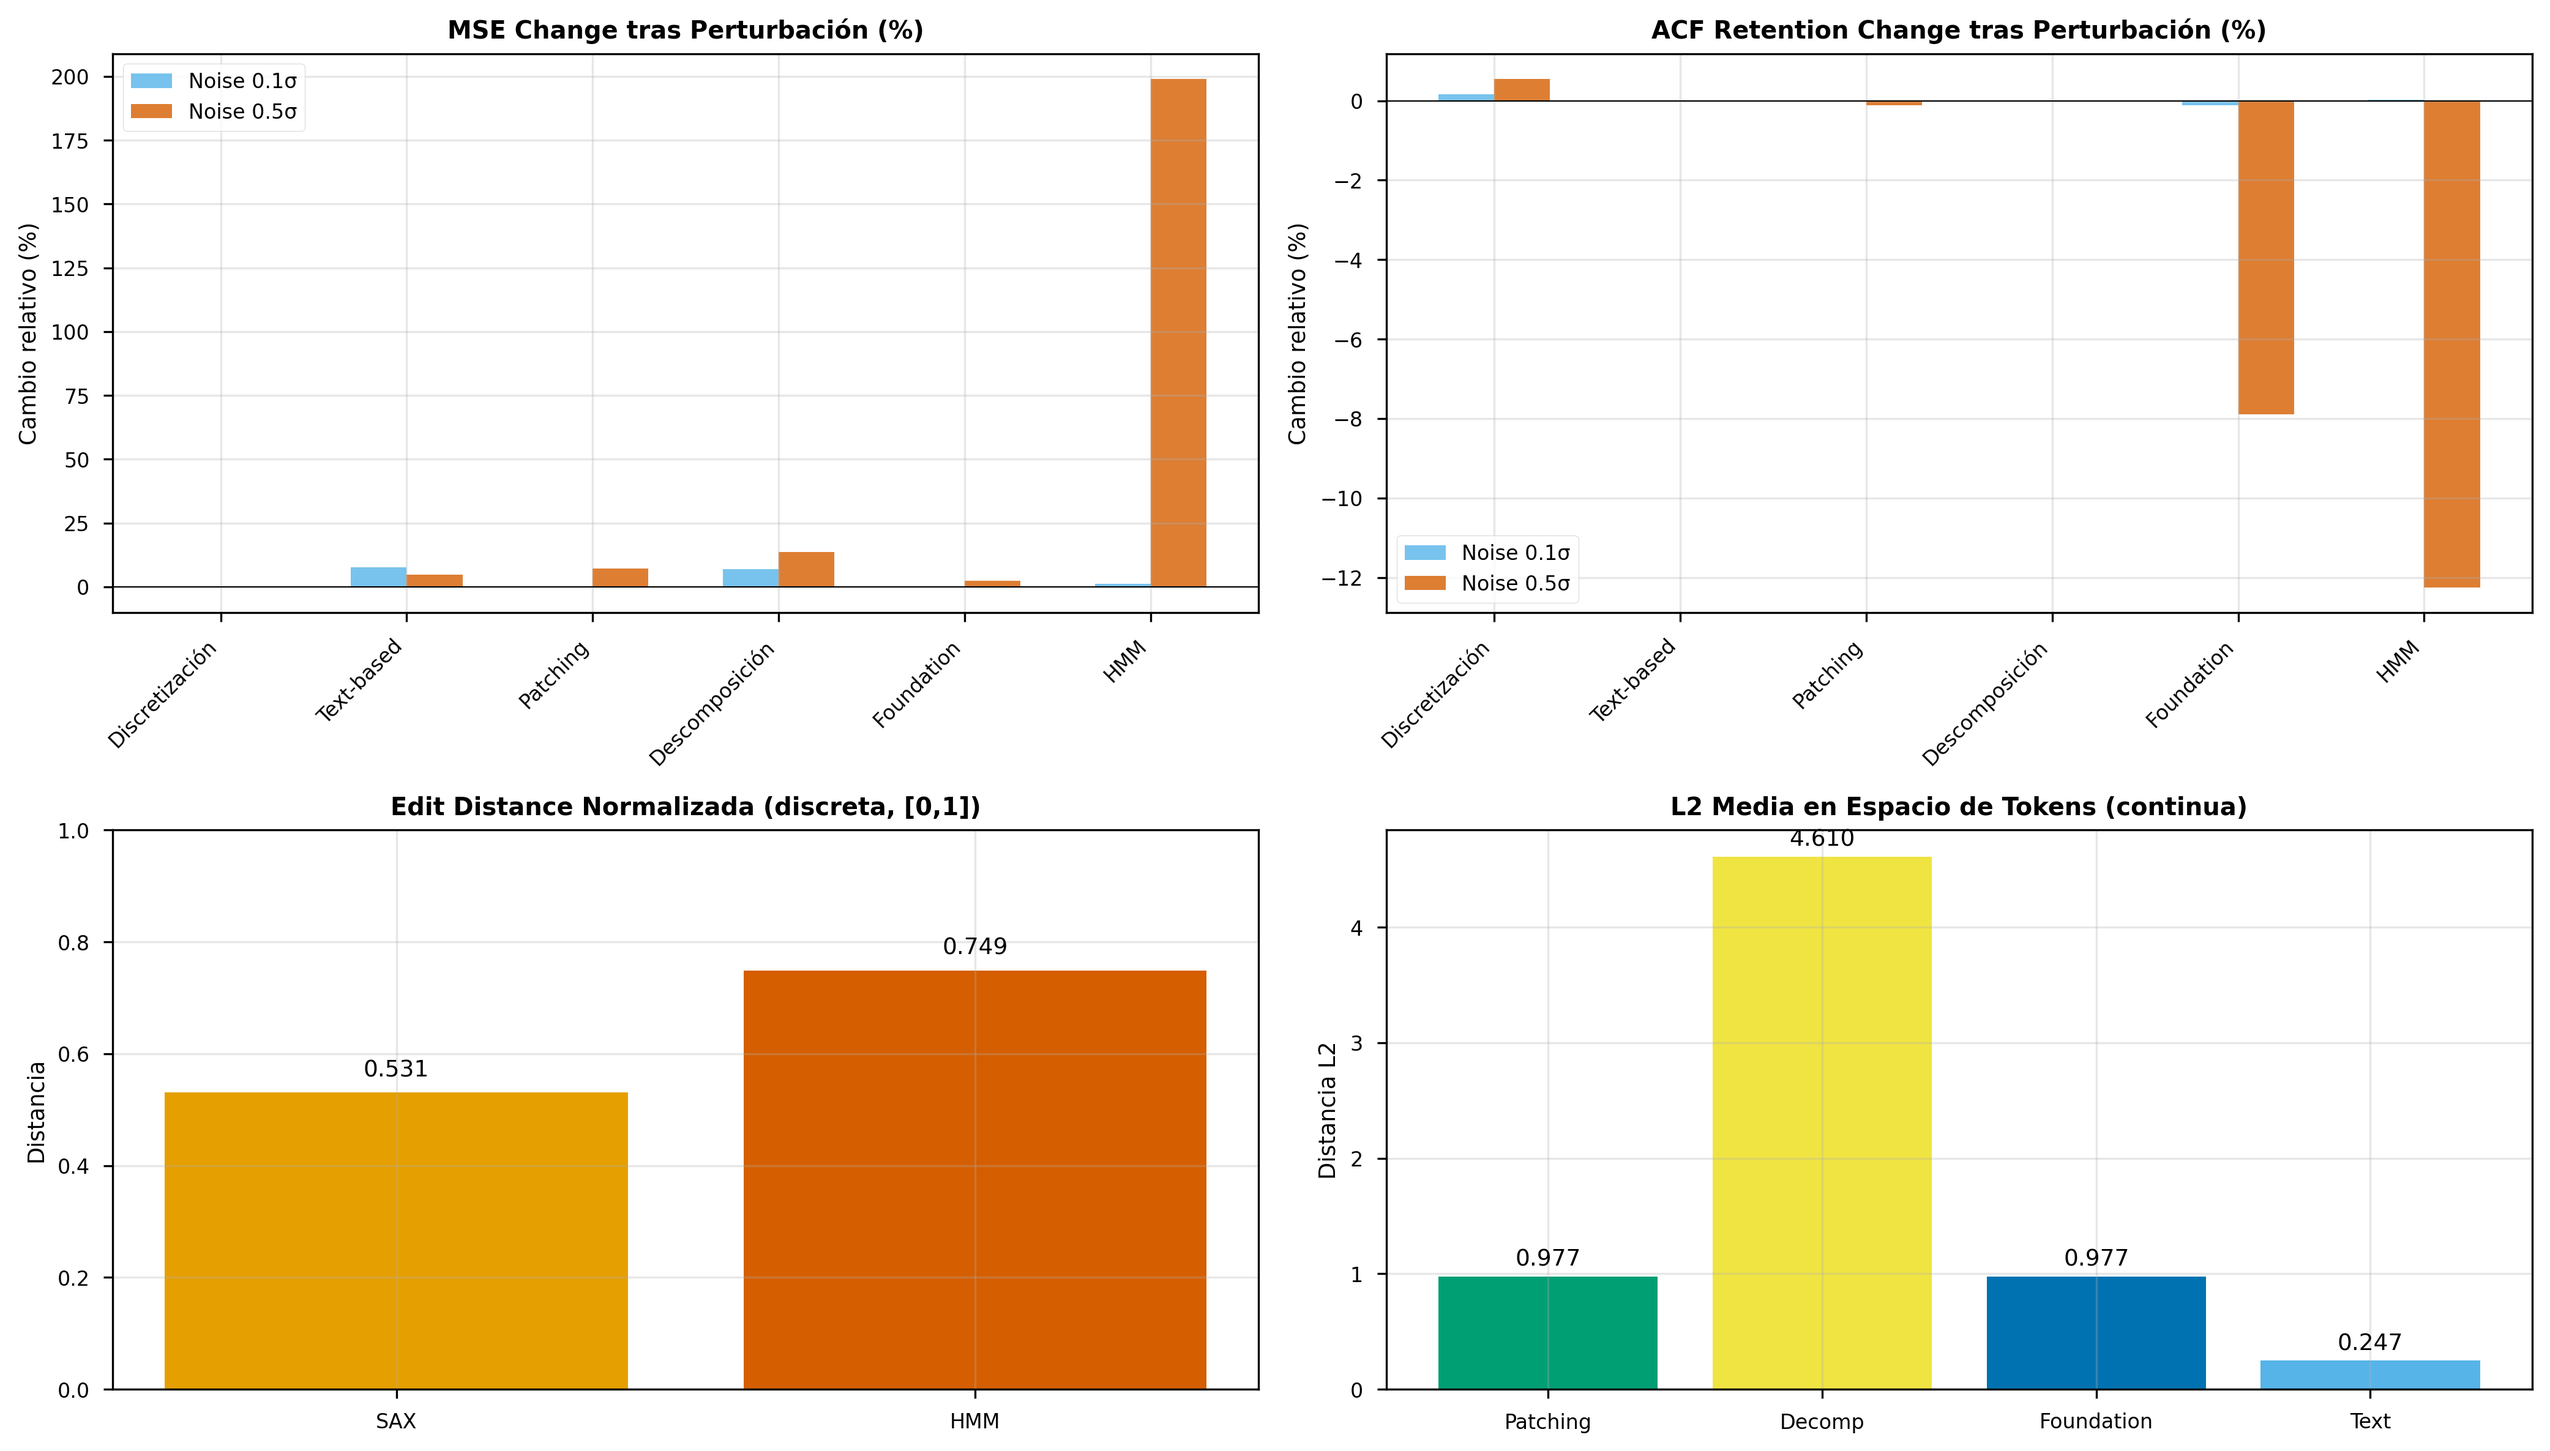
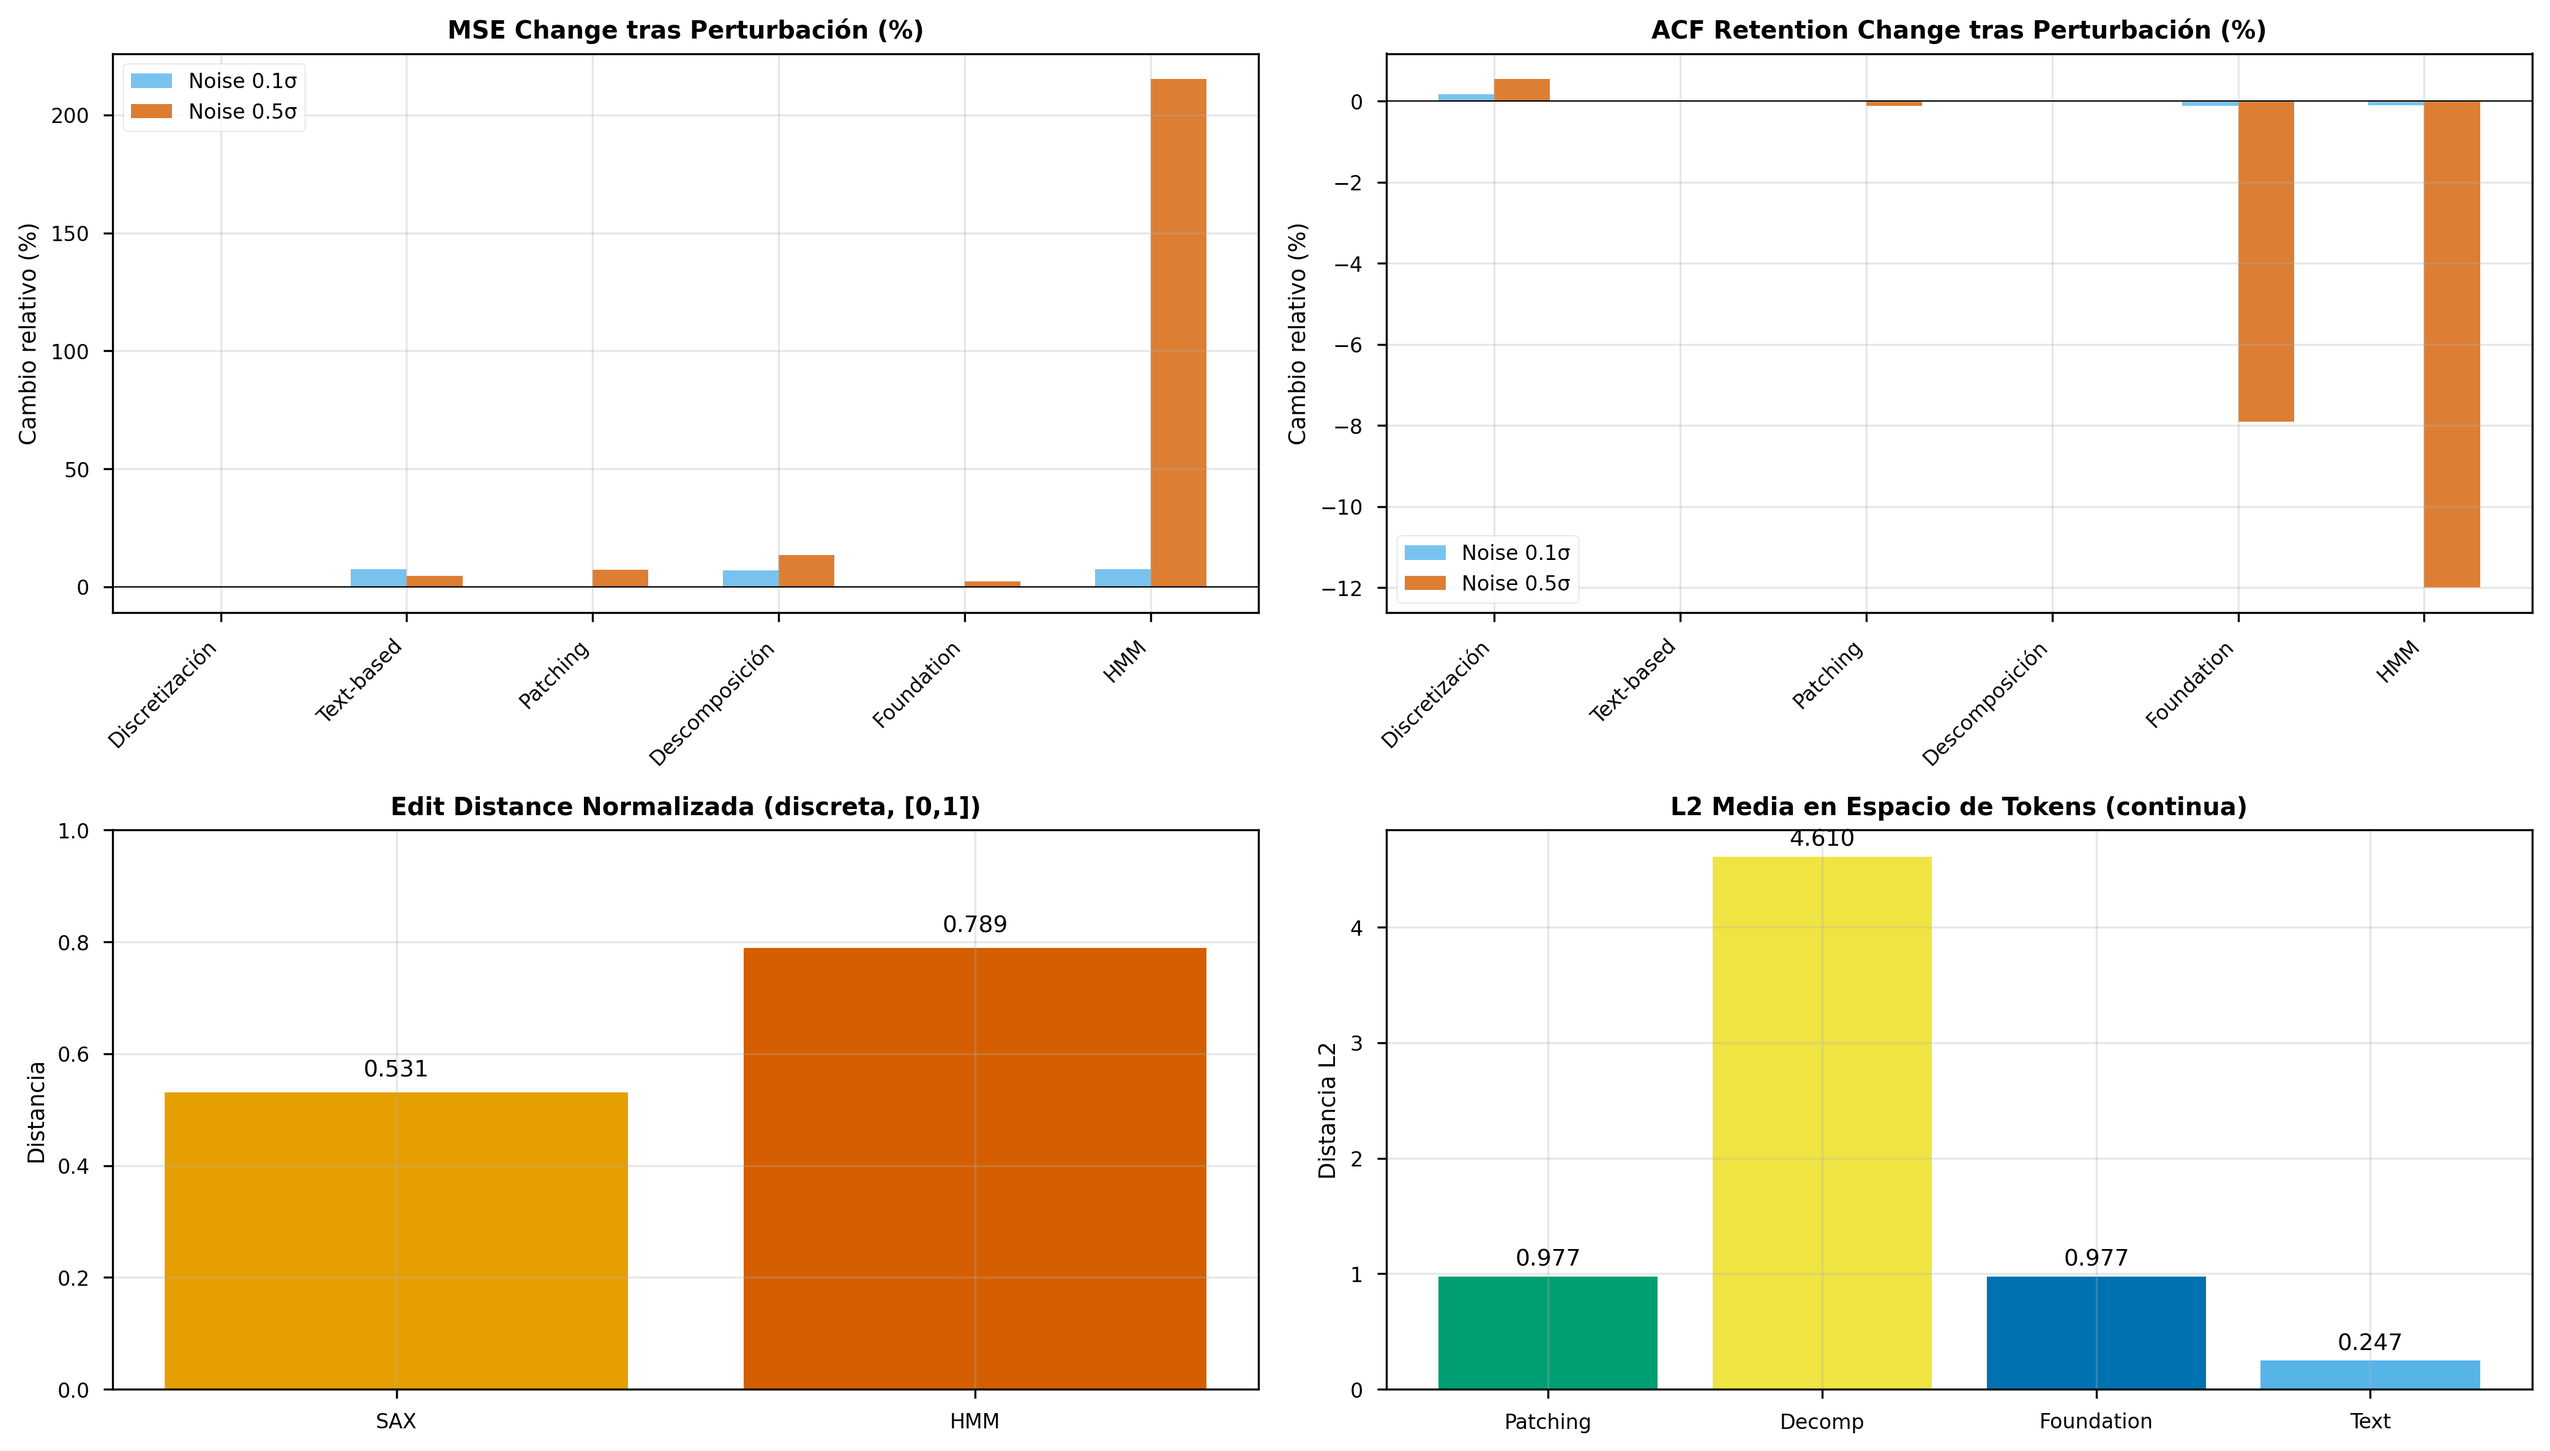
fix(tecnicas): corregir referencia falsa CAMEO→Box&Jenkins, RNG global→local en foundation, imports unused en notebooks

Changed region(s): [[0.2808, 0.6242, 0.4681, 0.6866], [0.8737, 0.2809, 0.9049, 0.3121], [0.4369, 0.3745, 0.4681, 0.4057]]

diff --git a/tecnicas/metrics.py b/tecnicas/metrics.py
@@ -4,13 +4,14 @@ Permiten comparar técnicas de tokenización usando solo los tokens generados.
 No requieren entrenar modelos ni ejecutar forecasting/clasificación.
 
 Referencias:
-    - Chiarot & Silvestri 2022: Time Series Compression Survey (ACM)
-    - Uzan et al. 2024: Greed is All You Need (ACL)
-    - CAMEO 2025: ACF/PACF retention para dependencias temporales
-    - Levenshtein 1966: Edit distance para secuencias discretas
+    - Chiarot & Silvestri (2022): Time Series Compression Survey, ACM Computing Surveys, 55(10).
+    - Uzan et al. (2024): Greed is All You Need, ACL 2024.
+    - Levenshtein (1966): Binary codes capable of correcting deletions, insertions, and reversals,
+      Soviet Physics Doklady, 10(8), pp. 707-710.
 """
 
 import numpy as np  # Operaciones matemáticas con arrays
+from collections import Counter  # Para contar ocurrencias de bigramas
 from scipy import stats  # Para calcular entropía
 from typing import Dict, Any, Callable, List  # Anotaciones de tipos
 
@@ -95,7 +96,7 @@ def acf_retention(original: np.ndarray, reconstructed: np.ndarray, nlags: int = 
         PatchTST con patches non-overlapping: ACF retention ~0.99
         SAX con discretización agresiva: ACF retention ~0.85
 
-    Ref: CAMEO 2025
+    Ref: Métrica estándar de procesamiento de señales (Box & Jenkins, 1976).
     """
     # Ajustar longitudes
     min_len = min(len(original), len(reconstructed))
@@ -196,7 +197,6 @@ def bigram_entropy(tokens: np.ndarray) -> float:
     bigrams = list(zip(tokens[:-1], tokens[1:]))
 
     # Contar ocurrencias de cada bigrama
-    from collections import Counter
     bigram_counts = Counter(bigrams)
 
     # Convertir a probabilidades

diff --git a/tecnicas/decomposition.py b/tecnicas/decomposition.py
@@ -5,8 +5,11 @@ Implementación PURA extraída de DLinear/TimeMixer (Zeng et al., 2023; Wang et 
 Reutiliza series_decomp de layers/Autoformer_EncDec.py sin capas neuronales.
 
 Referencias:
-    - Zeng et al. (2023): Are Transformers Effective for Time Series Forecasting? (DLinear)
-    - Wu et al. (2021): Autoformer (serie_decomp original)
+    - Wu et al. (2021): Autoformer: Decomposition Transformers with Auto-Correlation
+      for Long-Term Series Forecasting, NeurIPS 2021. (series_decomp original)
+    - Zeng et al. (2023): Are Transformers Effective for Time Series Forecasting?, AAAI 2023. (DLinear)
+    - Wang et al. (2024): TimeMixer: Decomposable Multiscale Mixing for Time Series Forecasting,
+      ICLR 2024. (reutiliza series_decomp)
     - Implementación original: layers/Autoformer_EncDec.py, líneas 21-54
 """
 

diff --git a/tecnicas/foundation.py b/tecnicas/foundation.py
@@ -88,8 +88,8 @@ def foundation_tokenize(series: np.ndarray,
     num_patches = patches.shape[0]
 
     # Paso 2: Masking aleatorio
-    if random_seed is not None:
-        np.random.seed(random_seed)
+    # Usar RandomState local para no modificar el estado global del RNG
+    rng = np.random.RandomState(random_seed)
 
     # Calcular número de patches a enmascarar
     num_masked = int(np.round(num_patches * mask_ratio))
@@ -97,7 +97,7 @@ def foundation_tokenize(series: np.ndarray,
 
     # Generar máscara aleatoria
     # mask[i] = True si patch i está enmascarado
-    mask_indices = np.random.choice(num_patches, size=num_masked, replace=False)
+    mask_indices = rng.choice(num_patches, size=num_masked, replace=False)
     mask = np.zeros(num_patches, dtype=bool)
     mask[mask_indices] = True
 
